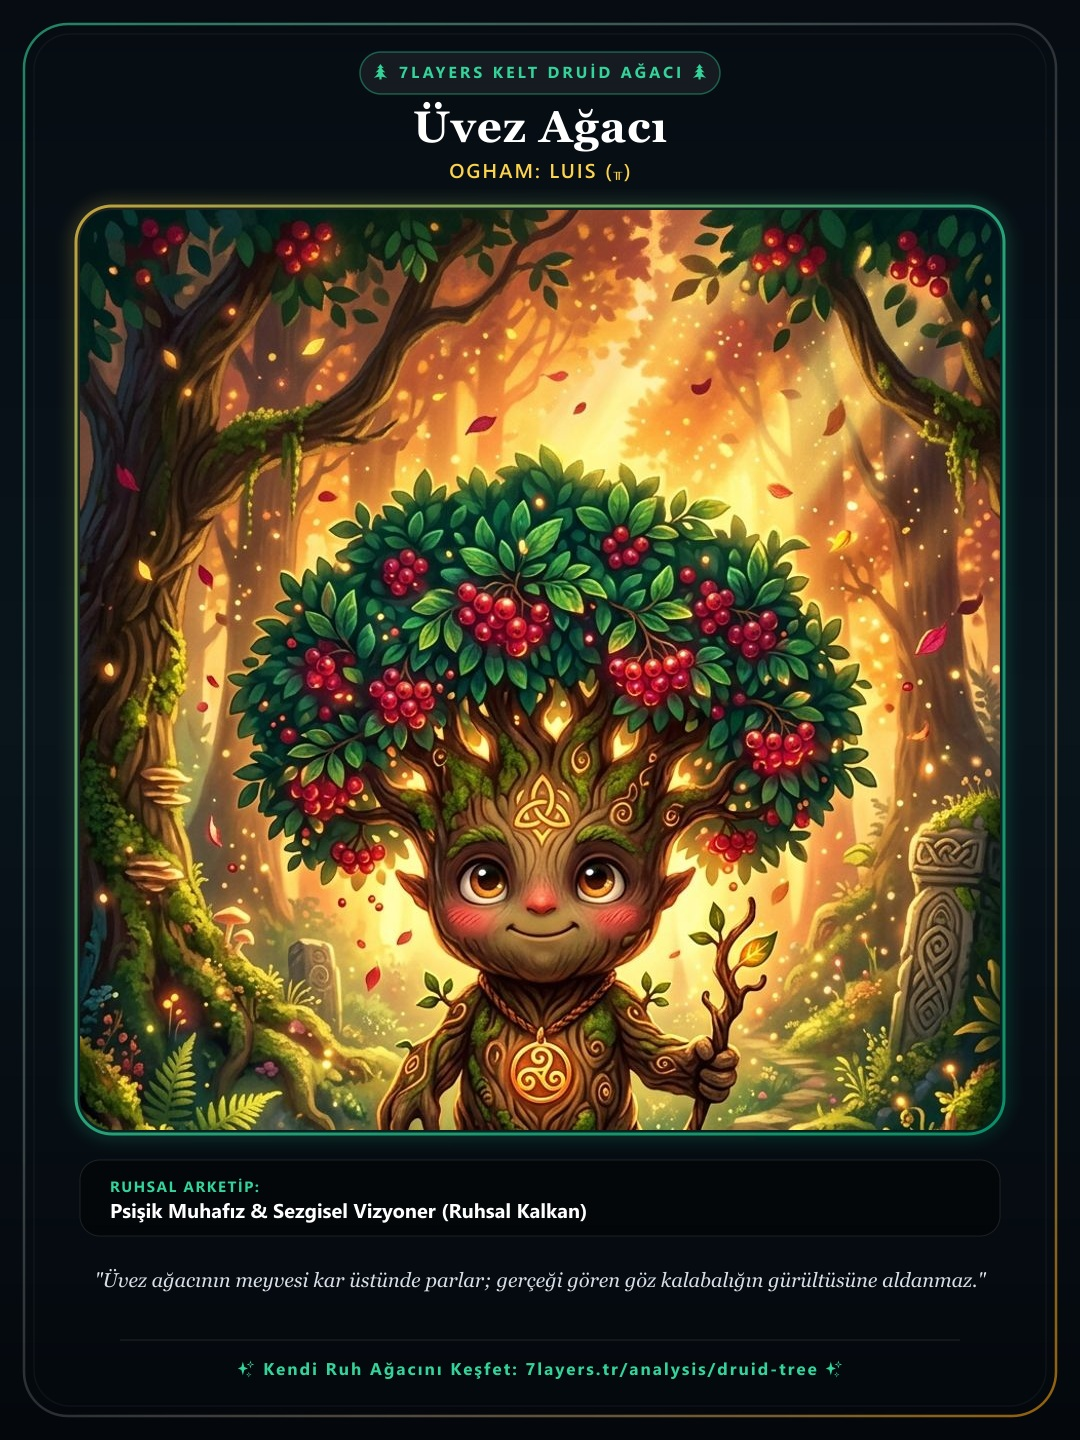
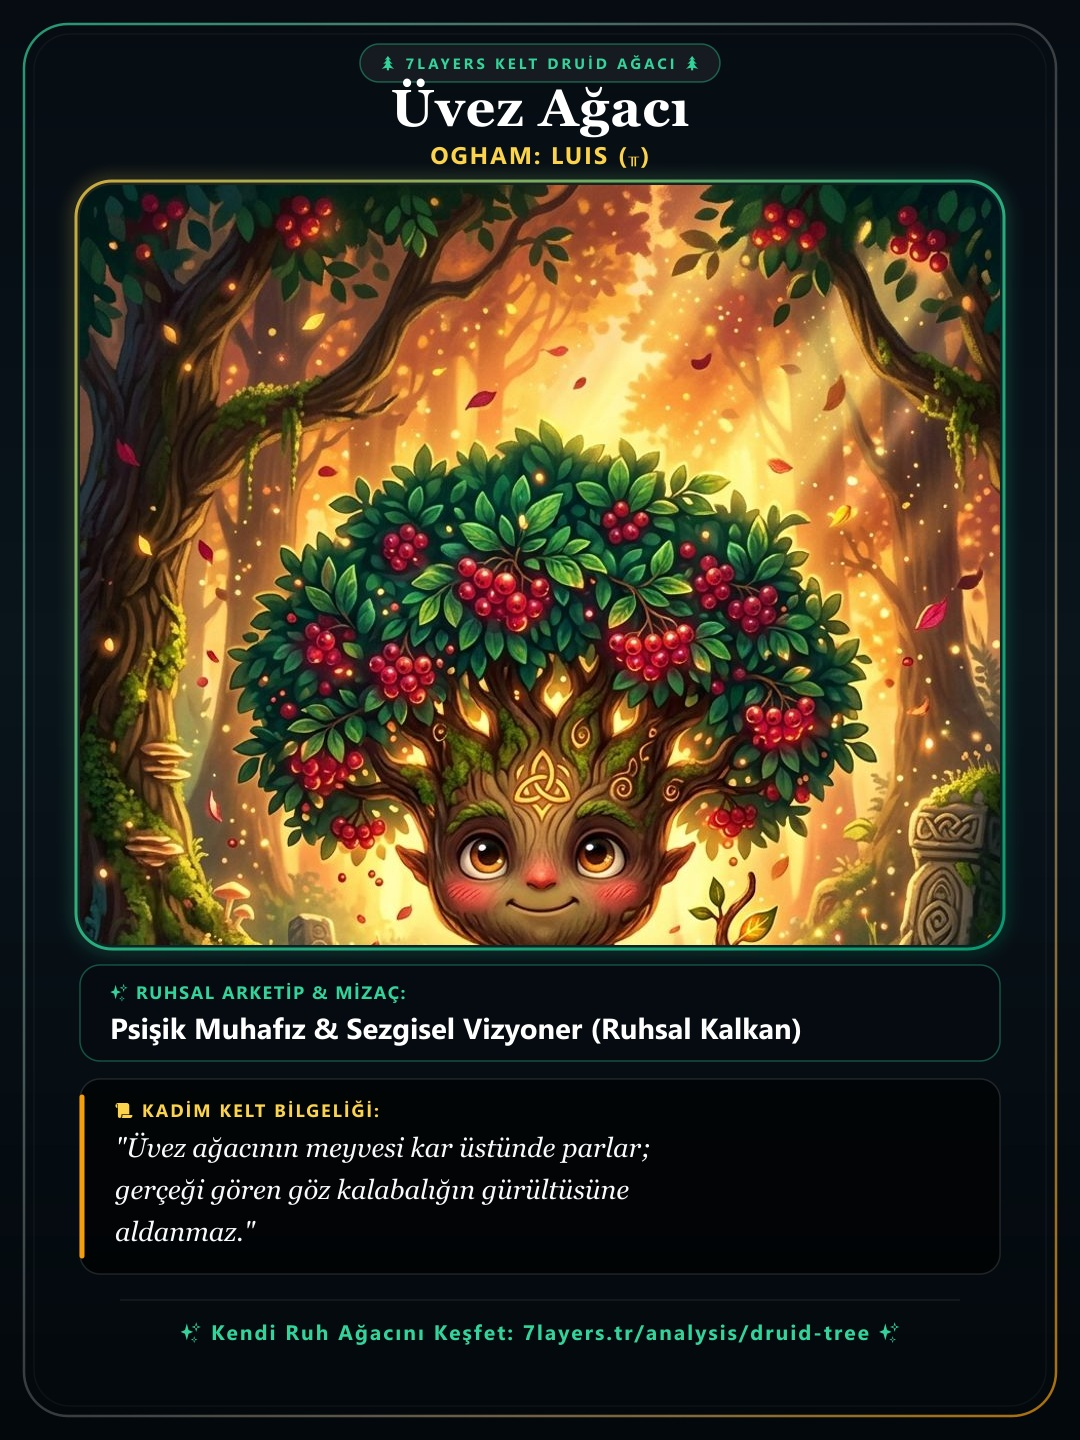
feat(druid-tree): upgrade card typography and font sizes for high readability

diff --git a/scripts/generate-druid-tree-cards.ts b/scripts/generate-druid-tree-cards.ts
@@ -12,13 +12,30 @@ function escapeXml(unsafe: string): string {
     .replace(/'/g, '&apos;');
 }
 
+function wrapText(text: string, maxCharsPerLine: number = 42): string[] {
+  const words = text.split(' ');
+  const lines: string[] = [];
+  let currentLine = '';
+
+  for (const word of words) {
+    if ((currentLine + ' ' + word).trim().length <= maxCharsPerLine) {
+      currentLine = (currentLine + ' ' + word).trim();
+    } else {
+      if (currentLine) lines.push(currentLine);
+      currentLine = word;
+    }
+  }
+  if (currentLine) lines.push(currentLine);
+  return lines;
+}
+
 const CARD_WIDTH = 1080;
 const CARD_HEIGHT = 1440;
 const INNER_IMG_WIDTH = 920;
-const INNER_IMG_HEIGHT = 920;
+const INNER_IMG_HEIGHT = 760;
 
 async function buildTreeCard(tree: any, rawImgPath: string, outputPath: string) {
-  // Resize raw image to square or rounded rectangle for inner card
+  // Resize raw image to rectangle for inner card
   const resizedInnerImg = await sharp(rawImgPath)
     .resize(INNER_IMG_WIDTH, INNER_IMG_HEIGHT, { fit: 'cover', position: 'top' })
     .toBuffer();
@@ -35,7 +52,7 @@ async function buildTreeCard(tree: any, rawImgPath: string, outputPath: string) 
     .toBuffer();
 
   const oghamTitle = `OGHAM: ${tree.oghamName.toUpperCase()} (${tree.oghamSymbol})`;
-  const proverb = `"${tree.druidicProverb}"`;
+  const proverbLines = wrapText(`"${tree.druidicProverb}"`, 44);
 
   // Overlay SVG with top header, inner image frame, and bottom card details
   const overlaySvg = `
@@ -43,8 +60,8 @@ async function buildTreeCard(tree: any, rawImgPath: string, outputPath: string) 
       <defs>
         <linearGradient id="bgGrad" x1="0%" y1="0%" x2="0%" y2="100%">
           <stop offset="0%" stop-color="#060C12"/>
-          <stop offset="50%" stop-color="#09141B"/>
-          <stop offset="100%" stop-color="#04080D"/>
+          <stop offset="45%" stop-color="#09141B"/>
+          <stop offset="100%" stop-color="#03080C"/>
         </linearGradient>
 
         <linearGradient id="goldGrad" x1="0%" y1="0%" x2="100%" y2="100%">
@@ -54,9 +71,9 @@ async function buildTreeCard(tree: any, rawImgPath: string, outputPath: string) 
         </linearGradient>
 
         <linearGradient id="borderGrad" x1="0%" y1="0%" x2="100%" y2="100%">
-          <stop offset="0%" stop-color="#34D399" stop-opacity="0.6"/>
-          <stop offset="50%" stop-color="#FFFFFF" stop-opacity="0.15"/>
-          <stop offset="100%" stop-color="#F59E0B" stop-opacity="0.6"/>
+          <stop offset="0%" stop-color="#34D399" stop-opacity="0.7"/>
+          <stop offset="50%" stop-color="#FFFFFF" stop-opacity="0.2"/>
+          <stop offset="100%" stop-color="#F59E0B" stop-opacity="0.7"/>
         </linearGradient>
 
         <filter id="glow" x="-20%" y="-20%" width="140%" height="140%">
@@ -77,45 +94,56 @@ async function buildTreeCard(tree: any, rawImgPath: string, outputPath: string) 
 
       <!-- Header Section -->
       <g transform="translate(0, 0)">
-        <rect x="360" y="52" width="360" height="42" rx="21" fill="#FFFFFF" fill-opacity="0.06" stroke="#34D399" stroke-opacity="0.4" stroke-width="1.5"/>
-        <text x="540" y="78" font-family="'Segoe UI', Roboto, sans-serif" font-size="16" font-weight="700" fill="#34D399" text-anchor="middle" letter-spacing="3">
+        <rect x="360" y="44" width="360" height="38" rx="19" fill="#FFFFFF" fill-opacity="0.06" stroke="#34D399" stroke-opacity="0.4" stroke-width="1.5"/>
+        <text x="540" y="69" font-family="'Segoe UI', Roboto, sans-serif" font-size="15" font-weight="700" fill="#34D399" text-anchor="middle" letter-spacing="3">
           🌲 7LAYERS KELT DRUİD AĞACI 🌲
         </text>
 
         <!-- Tree Name and Ogham -->
-        <text x="540" y="142" font-family="'Georgia', serif" font-size="44" font-weight="bold" fill="#FFFFFF" text-anchor="middle" letter-spacing="1">
+        <text x="540" y="126" font-family="'Georgia', serif" font-size="52" font-weight="bold" fill="#FFFFFF" text-anchor="middle" letter-spacing="1">
           ${escapeXml(tree.name)}
         </text>
-        <text x="540" y="178" font-family="'Segoe UI', Roboto, sans-serif" font-size="20" font-weight="600" fill="#FCD34D" text-anchor="middle" letter-spacing="2">
+        <text x="540" y="164" font-family="'Segoe UI', Roboto, sans-serif" font-size="24" font-weight="700" fill="#FCD34D" text-anchor="middle" letter-spacing="2">
           ${escapeXml(oghamTitle)}
         </text>
       </g>
 
       <!-- Inner Image Border Glow -->
-      <rect x="76" y="206" width="${INNER_IMG_WIDTH + 8}" height="${INNER_IMG_HEIGHT + 8}" rx="36" fill="none" stroke="url(#goldGrad)" stroke-width="3" opacity="0.75" filter="url(#glow)"/>
+      <rect x="76" y="181" width="${INNER_IMG_WIDTH + 8}" height="${INNER_IMG_HEIGHT + 8}" rx="36" fill="none" stroke="url(#goldGrad)" stroke-width="3" opacity="0.8" filter="url(#glow)"/>
 
       <!-- Bottom Card Details -->
-      <g transform="translate(0, 1160)">
-        <!-- Archetype & Power Badge -->
-        <rect x="80" y="0" width="${CARD_WIDTH - 160}" height="76" rx="20" fill="#000000" fill-opacity="0.45" stroke="#FFFFFF" stroke-opacity="0.1" stroke-width="1"/>
+      <g transform="translate(0, 965)">
+        <!-- Archetype Box -->
+        <rect x="80" y="0" width="${CARD_WIDTH - 160}" height="96" rx="20" fill="#040A10" fill-opacity="0.75" stroke="#34D399" stroke-opacity="0.35" stroke-width="1.5"/>
         
-        <text x="110" y="32" font-family="'Segoe UI', Roboto, sans-serif" font-size="15" font-weight="bold" fill="#34D399" letter-spacing="1.5">
-          RUHSAL ARKETİP:
+        <text x="110" y="34" font-family="'Segoe UI', Roboto, sans-serif" font-size="18" font-weight="bold" fill="#34D399" letter-spacing="1.5">
+          ✨ RUHSAL ARKETİP &amp; MİZAÇ:
         </text>
-        <text x="110" y="58" font-family="'Segoe UI', Roboto, sans-serif" font-size="20" font-weight="bold" fill="#FFFFFF">
+        <text x="110" y="74" font-family="'Segoe UI', Roboto, sans-serif" font-size="29" font-weight="bold" fill="#FFFFFF">
           ${escapeXml(tree.archetype)}
         </text>
 
-        <!-- Proverb Quote -->
-        <g transform="translate(80, 95)">
-          <text x="${(CARD_WIDTH - 160) / 2}" y="32" font-family="'Georgia', serif" font-size="20" font-style="italic" fill="#E2E8F0" text-anchor="middle" opacity="0.95">
-            ${escapeXml(proverb)}
+        <!-- Proverb Box (Large, High-Contrast & Wrapped) -->
+        <g transform="translate(80, 114)">
+          <rect x="0" y="0" width="${CARD_WIDTH - 160}" height="195" rx="20" fill="#000000" fill-opacity="0.65" stroke="#FFFFFF" stroke-opacity="0.12" stroke-width="1.5"/>
+          <line x1="2" y1="18" x2="2" y2="177" stroke="#F59E0B" stroke-width="5" stroke-linecap="round"/>
+
+          <text x="35" y="38" font-family="'Segoe UI', Roboto, sans-serif" font-size="18" font-weight="700" fill="#FCD34D" letter-spacing="2">
+            📜 KADİM KELT BİLGELİĞİ:
           </text>
+
+          <g transform="translate(35, 78)">
+            ${proverbLines.map((line, idx) => `
+              <text x="0" y="${idx * 42}" font-family="'Georgia', serif" font-size="27" font-style="italic" fill="#F8FAFC" font-weight="500">
+                ${escapeXml(line)}
+              </text>
+            `).join('')}
+          </g>
         </g>
 
-        <!-- Footer Brand -->
-        <line x1="120" y1="180" x2="${CARD_WIDTH - 120}" y2="180" stroke="#FFFFFF" stroke-opacity="0.12" stroke-width="1"/>
-        <text x="540" y="215" font-family="'Segoe UI', Roboto, sans-serif" font-size="17" font-weight="700" fill="#34D399" text-anchor="middle" letter-spacing="2">
+        <!-- Footer Brand Line -->
+        <line x1="120" y1="335" x2="${CARD_WIDTH - 120}" y2="335" stroke="#FFFFFF" stroke-opacity="0.12" stroke-width="1"/>
+        <text x="540" y="375" font-family="'Segoe UI', Roboto, sans-serif" font-size="21" font-weight="700" fill="#34D399" text-anchor="middle" letter-spacing="2">
           ✨ Kendi Ruh Ağacını Keşfet: 7layers.tr/analysis/druid-tree ✨
         </text>
       </g>
@@ -126,14 +154,14 @@ async function buildTreeCard(tree: any, rawImgPath: string, outputPath: string) 
     .composite([
       {
         input: roundedInnerImg,
-        top: 210,
+        top: 185,
         left: 80
       }
     ])
     .jpeg({ quality: 94 })
     .toFile(outputPath);
 
-  console.log(`Card created: ${outputPath}`);
+  console.log(`Card created with large legible typography: ${outputPath}`);
 }
 
 async function main() {
@@ -155,7 +183,7 @@ async function main() {
     fs.copyFileSync(cardOutput, mobCardOutput);
   }
 
-  console.log('All 13 Druid Tree Social Media Cards successfully built!');
+  console.log('All 13 Druid Tree Social Media Cards successfully built with high-legibility typography!');
 }
 
 main().catch(console.error);
